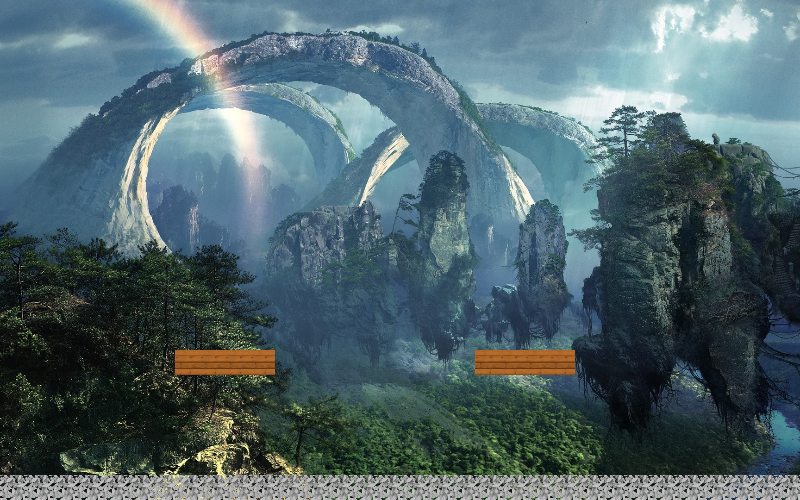
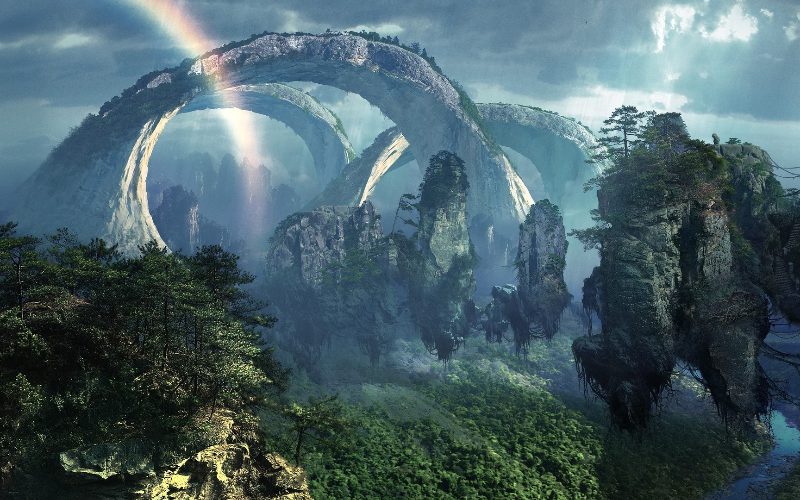
switchView  scollpane bug fixed and mapeditor restructuring

Changed region(s): [[0.0, 0.93, 1.0, 1.0], [0.5938, 0.69, 0.7188, 0.75], [0.2188, 0.69, 0.3438, 0.75]]

diff --git a/src/main/java/com.yeet.editor/src/editor/interactive/MapEditor.java b/src/main/java/com.yeet.editor/src/editor/interactive/MapEditor.java
@@ -13,6 +13,7 @@ import javafx.scene.control.ListView;
 import javafx.scene.image.Image;
 import javafx.scene.image.WritableImage;
 import javafx.scene.input.MouseEvent;
+import javafx.scene.layout.HBox;
 import javafx.scene.paint.Color;
 import javafx.scene.text.Text;
 import javafx.stage.FileChooser;
@@ -50,7 +51,6 @@ public class MapEditor extends EditorSuper {
     private static final String ALL_MAPS = "allmaps/";
     private static final String DEFAULT_BGM = "BGM.mp3";
 
-    private Consumer consumer;
     private Image currentTileFile;
     private String myCurrentTileName;
     private ScrollablePaneNew myScrollablePane;
@@ -60,6 +60,7 @@ public class MapEditor extends EditorSuper {
     private ResourceBundle myTags;
     private File myStageDirectory;
     private File backgroundFile;
+    private HBox myButtons;
 
     /**
      * Constructs the Map Editor object given the root and the editor manager
@@ -70,51 +71,21 @@ public class MapEditor extends EditorSuper {
         myBackgroundImage = DEFAULT_BACKGROUND_IMAGE;
         myBGMFileName = DEFAULT_BGM;
         try {
-            initializeLevel(800, 500, 400, 100,
+            initializeLevel(880, 550, 300, 100,
                     this.getClass().getClassLoader().getResource(DEFAULT_BACKGROUND_IMAGE).toURI().toString());
         } catch (URISyntaxException e) {
             e.printStackTrace();
         }
-        consumer = new Consumer() {
-            @Override
-            public void accept(Object o) {
-                o = o;
-            }
-        };
+
         initializeScrollPane();
         ScrollItem si = (ScrollItem) myScrollablePane.getItems().get(0);
         currentTileFile = si.getImage();
         myCurrentTileName = si.getButton().getText();
         //getRenderSystem().drawStage(mapPane, level);
         level.setOnMouseClicked(e -> clickProcessTile(e));
-        Button addBG = myRS.makeStringButton("Set Background", Color.BLACK,true,Color.WHITE,
-                20.0,800.0,700.0,200.0,50.0);
-        addBG.setOnMouseClicked(e -> chooseBackground());
+        initializeButtons();
 
-        Button resetGrid = myRS.makeStringButton("Reset Grid", Color.LAVENDER, true, Color.WHITE,
-                30.0,25.0, 300.0, 200.0, 50.0);
-        resetGrid.setOnMouseClicked(e -> level.resetGrid());
-
-        Button chooseTile = myRS.makeStringButton("Choose Tile", Color.CRIMSON, true, Color.WHITE,
-                30.0,25.0, 375.0, 200.0, 50.0);
-        chooseTile.setOnMouseClicked(e -> chooseTileImage());
-
-        Button saveFile = myRS.makeStringButton("Save File", Color.CRIMSON, true, Color.WHITE,
-                30.0,25.0, 150.0, 200.0, 50.0);
-        saveFile.setOnMouseClicked(e -> createSaveFile());
-
-        Label musicLabel = new Label("Background Music");
-        musicLabel.setLayoutX(250);
-        musicLabel.setLayoutY(650);
-
-
-        Button settings = myRS.makeStringButton("Map Settings", Color.CRIMSON, true, Color.WHITE,
-                30.0,25.0, 200.0, 200.0, 50.0);
-        settings.setOnMouseClicked(e -> {
-            MapSettings s = new MapSettings();
-            s.setScene();
-        });
-        root.getChildren().addAll(addBG, resetGrid, chooseTile, saveFile, settings);
+        root.getChildren().add(myButtons);
         backgroundFile = Paths.get(myEM.getGameDirectoryString(), "data","background").toFile();
     }
 
@@ -130,11 +101,39 @@ public class MapEditor extends EditorSuper {
 
     private void initializeScrollPane(){
         File paneFile = new File(myEM.getGameDirectoryString()+DEFAULT_IMAGE_DIR);
-        myScrollablePane = new ScrollablePaneNew(paneFile,50,400.0, 300, 600);
+        myScrollablePane = new ScrollablePaneNew(paneFile,15,150.0, 300, 600);
         for(Scrollable b: myScrollablePane.getItems()){
             b.getButton().setOnMouseClicked(e -> selectTileFromScroll(b.getImage(), b.getButton().getText()));
         }
         root.getChildren().add(myScrollablePane.getScrollPane());
+    }
+
+    private void initializeButtons(){
+        myButtons = new HBox(5);
+        Button addBG = myRS.makeStringButton("Set Background", Color.CRIMSON,true,Color.WHITE,
+                20.0,0.0,0.0,200.0,50.0);
+        addBG.setOnMouseClicked(e -> chooseBackground());
+
+        Button resetGrid = myRS.makeStringButton("Reset Grid", Color.CRIMSON, true, Color.WHITE,
+                20.0,0.0, 0.0, 200.0, 50.0);
+        resetGrid.setOnMouseClicked(e -> level.resetGrid());
+
+        Button chooseTile = myRS.makeStringButton("Choose Tile", Color.CRIMSON, true, Color.WHITE,
+                20.0,0.0, 0.0, 200.0, 50.0);
+        chooseTile.setOnMouseClicked(e -> chooseTileImage());
+
+        Button saveFile = myRS.makeStringButton("Save File", Color.CRIMSON, true, Color.WHITE,
+                20.0,0.0, 0.0, 200.0, 50.0);
+        saveFile.setOnMouseClicked(e -> createSaveFile());
+        Button settings = myRS.makeStringButton("Map Settings", Color.CRIMSON, true, Color.WHITE,
+                20.0,0.0, 0.0, 200.0, 50.0);
+        settings.setOnMouseClicked(e -> {
+            MapSettings s = new MapSettings();
+            s.setScene();
+        });
+        myButtons.getChildren().addAll(saveFile,settings,resetGrid,addBG,chooseTile);
+        myButtons.setLayoutX(60.0);
+        myButtons.setLayoutY(50.0);
     }
 
     /**

diff --git a/src/main/java/com.yeet.renderer/src/renderer/external/Structures/ScrollablePaneNew.java b/src/main/java/com.yeet.renderer/src/renderer/external/Structures/ScrollablePaneNew.java
@@ -67,7 +67,9 @@ public class ScrollablePaneNew extends Pane {
                 currentH = new HBox(3);
             }
             currentH.getChildren().add(items.get(i).getImageButton());
-            tgGrid.getToggles().add(items.get(i).getImageButton());
+            if(!tgGrid.getToggles().contains(items.get(i).getImageButton())){
+                tgGrid.getToggles().add(items.get(i).getImageButton());
+            }
         }
         hboxes.add(currentH);
         gridView.getChildren().addAll(hboxes);
@@ -137,6 +139,7 @@ public class ScrollablePaneNew extends Pane {
                 addItem(itemImage, imageName);
             }
         }
+        buildGridView();
     }
 
     public ObservableList<Scrollable> getItems() {
